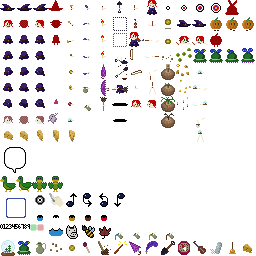
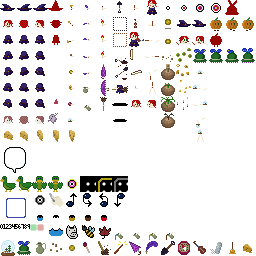
Chalk: Highlight endpoints, and a "clear" option

Changed region(s): [[0.25, 0.6875, 0.5, 0.75]]

diff --git a/src/app/menu/fmn_menu_chalk.c b/src/app/menu/fmn_menu_chalk.c
@@ -25,8 +25,14 @@ static void chalk_dismiss(struct fmn_menu *menu) {
  */
  
 static void chalk_move(struct fmn_menu *menu,int dx,int dy) {
-  handx+=dx; if (handx<0) handx=2; else if (handx>2) handx=0;
-  handy+=dy; if (handy<0) handy=2; else if (handy>2) handy=0;
+  handx+=dx;
+  handy+=dy;
+  if ((handx==3)&&(handy==0)) {
+    // "clear all"
+  } else {
+    if (handx<0) handx=handy?2:3; else if (handx>2) handx=0;
+    if (handy<0) handy=2; else if (handy>2) handy=0;
+  }
   if ((anchorx==0)&&(handx==2)) handx=1;
   if ((anchorx==2)&&(handx==0)) handx=1;
   if ((anchory==0)&&(handy==2)) handy=1;
@@ -37,16 +43,23 @@ static void chalk_move(struct fmn_menu *menu,int dx,int dy) {
  */
  
 static void chalk_press(struct fmn_menu *menu) {
-  anchorx=handx;
-  anchory=handy;
+  if (handx==3) {
+    bitpic=0;
+    if (menu->cb) menu->cb(menu,FMN_MENU_MESSAGE_CHANGED);
+  } else {
+    anchorx=handx;
+    anchory=handy;
+  }
 }
 
 static void chalk_release(struct fmn_menu *menu) {
-  if ((anchorx!=handx)||(anchory!=handy)) {
-    uint32_t bit=fmn_chalk_bit_from_points((anchorx<<12)|(anchory<<8)|(handx<<4)|handy);
-    if (bit) {
-      bitpic^=bit;
-      if (menu->cb) menu->cb(menu,FMN_MENU_MESSAGE_CHANGED);
+  if (handx<3) {
+    if ((anchorx!=handx)||(anchory!=handy)) {
+      uint32_t bit=fmn_chalk_bit_from_points((anchorx<<12)|(anchory<<8)|(handx<<4)|handy);
+      if (bit) {
+        bitpic^=bit;
+        if (menu->cb) menu->cb(menu,FMN_MENU_MESSAGE_CHANGED);
+      }
     }
   }
   anchorx=anchory=-1;
@@ -79,10 +92,18 @@ static void _chalk_render(struct fmn_menu *menu) {
   int16_t bh=bw;
   int16_t bx=(menu->fbw>>1)-(bw>>1);
   int16_t by=(menu->fbh>>1)-(bh>>1);
+  int16_t clearw=tilesize<<1;
+  int16_t clearh=tilesize<<1;
+  int16_t clearx=bx+bw+1;
+  int16_t cleary=by;
   
-  // Black box.
-  struct fmn_draw_rect rect={bx,by,bw,bh,bgcolor};
-  fmn_draw_rect(&rect,1);
+  { // Black box.
+    struct fmn_draw_rect vtxv[]={
+      {bx,by,bw,bh,bgcolor},
+      {clearx,cleary,clearw,clearh,bgcolor},
+    };
+    fmn_draw_rect(vtxv,sizeof(vtxv)/sizeof(vtxv[0]));
+  }
   
   // Lines.
   struct fmn_draw_line vtxv[21]; // 20 possible lines, plus the focus line.
@@ -122,16 +143,44 @@ static void _chalk_render(struct fmn_menu *menu) {
       int row=0; for (;row<3;row++) {
         mvtx->x=bx+margin+spacing*col;
         mvtx->y=by+margin+spacing*row;
-        mvtx->tileid=0xc2;
+        if ((col==anchorx)&&(row==anchory)) mvtx->tileid=0xb4;
+        else if ((anchorx>=0)&&((col==handx)&&(row==handy))) mvtx->tileid=0xb4;
+        else mvtx->tileid=0xc2;
         mvtx->xform=0;
         mvtx++;
       }
     }
-    mvtx->x=bx+margin+spacing*handx+(tilesize>>1);
-    mvtx->y=by+margin+spacing*handy+(tilesize>>1);
+    if (handx<3) {
+      mvtx->x=bx+margin+spacing*handx+(tilesize>>1);
+      mvtx->y=by+margin+spacing*handy+(tilesize>>1);
+    } else {
+      mvtx->x=-100;
+      mvtx->y=-100;
+    }
     mvtx->tileid=0xc3;
     mvtx->xform=0;
     fmn_draw_mintile(mvtxv,10,2);
+  }
+  
+  { // Clear-all button.
+    uint8_t tileid=0xb5;
+    if (handx==3) {
+      if (bitpic) tileid=0xb6;
+      else tileid=0xb7;
+    }
+    struct fmn_draw_mintile vtxv[4]={
+      {clearx+(tilesize>>1),cleary+(tilesize>>1),tileid,0},
+      {0,tilesize,tileid,FMN_XFORM_YREV},
+      {tilesize,0,tileid,FMN_XFORM_XREV},
+      {tilesize,tilesize,tileid,FMN_XFORM_XREV|FMN_XFORM_YREV},
+    };
+    vtxv[1].x+=vtxv[0].x;
+    vtxv[1].y+=vtxv[0].y;
+    vtxv[2].x+=vtxv[0].x;
+    vtxv[2].y+=vtxv[0].y;
+    vtxv[3].x+=vtxv[0].x;
+    vtxv[3].y+=vtxv[0].y;
+    fmn_draw_mintile(vtxv,sizeof(vtxv)/sizeof(vtxv[0]),2);
   }
 }
 

diff --git a/README.md b/README.md
@@ -63,8 +63,8 @@ And tentatively aiming for full release 29 September 2023, the first full moon o
 - [ ] The church's altar area looks like a stage; can we make something happen when you play the violin up there?
 - [x] Minimum time at treasure menu, prevent accidental dismiss.
 - [x] '' game over menu.
-- [ ] Chalk: clear all
-- [ ] Chalk: highlight active endpoints
+- [x] Chalk: clear all
+- [x] Chalk: highlight active endpoints
 - [ ] More involved tutorial for violin?
 - [ ] Firewall at 720x400 visible aliasing. (texture filter?)
 - [ ] Show spell while encoding.
@@ -84,6 +84,7 @@ And tentatively aiming for full release 29 September 2023, the first full moon o
 - [ ] Farmer: Tolerate other plant states. Esp pre-dug hole.
 - [ ] Bloom plants while on screen?
 - [ ] Ghost of plant when you dig it up.
+- [ ] Cow: Black vertical stripes over the eyes and a big pink nose, look it up.
 - [ ] Snowglobe: Minimum interval between strokes? Or at least between sound effects.
 - [ ] Hearts or something above blocks and raccoons when enchanted.
 - [ ] _Enchanting Adventures: The Witch's Quest_ minigame.
